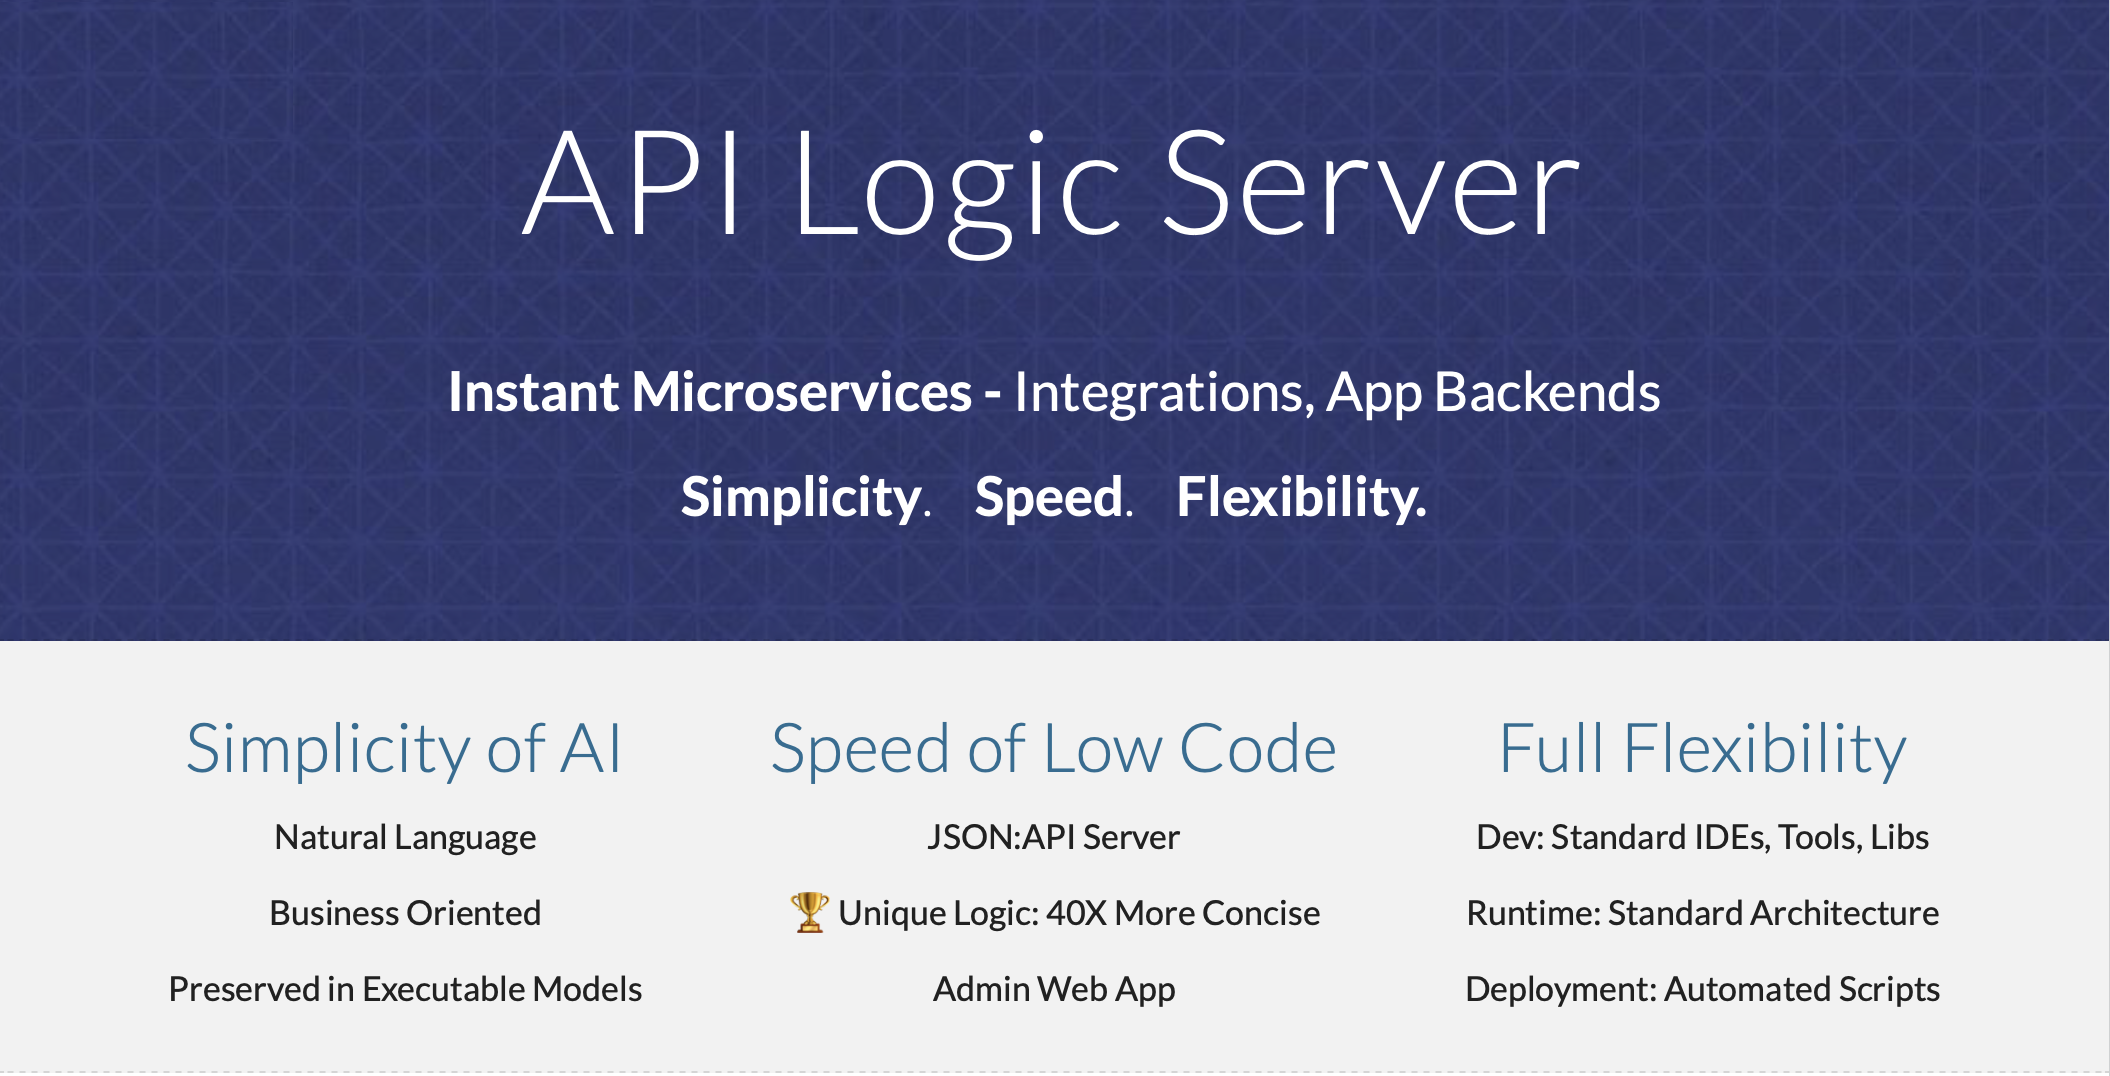
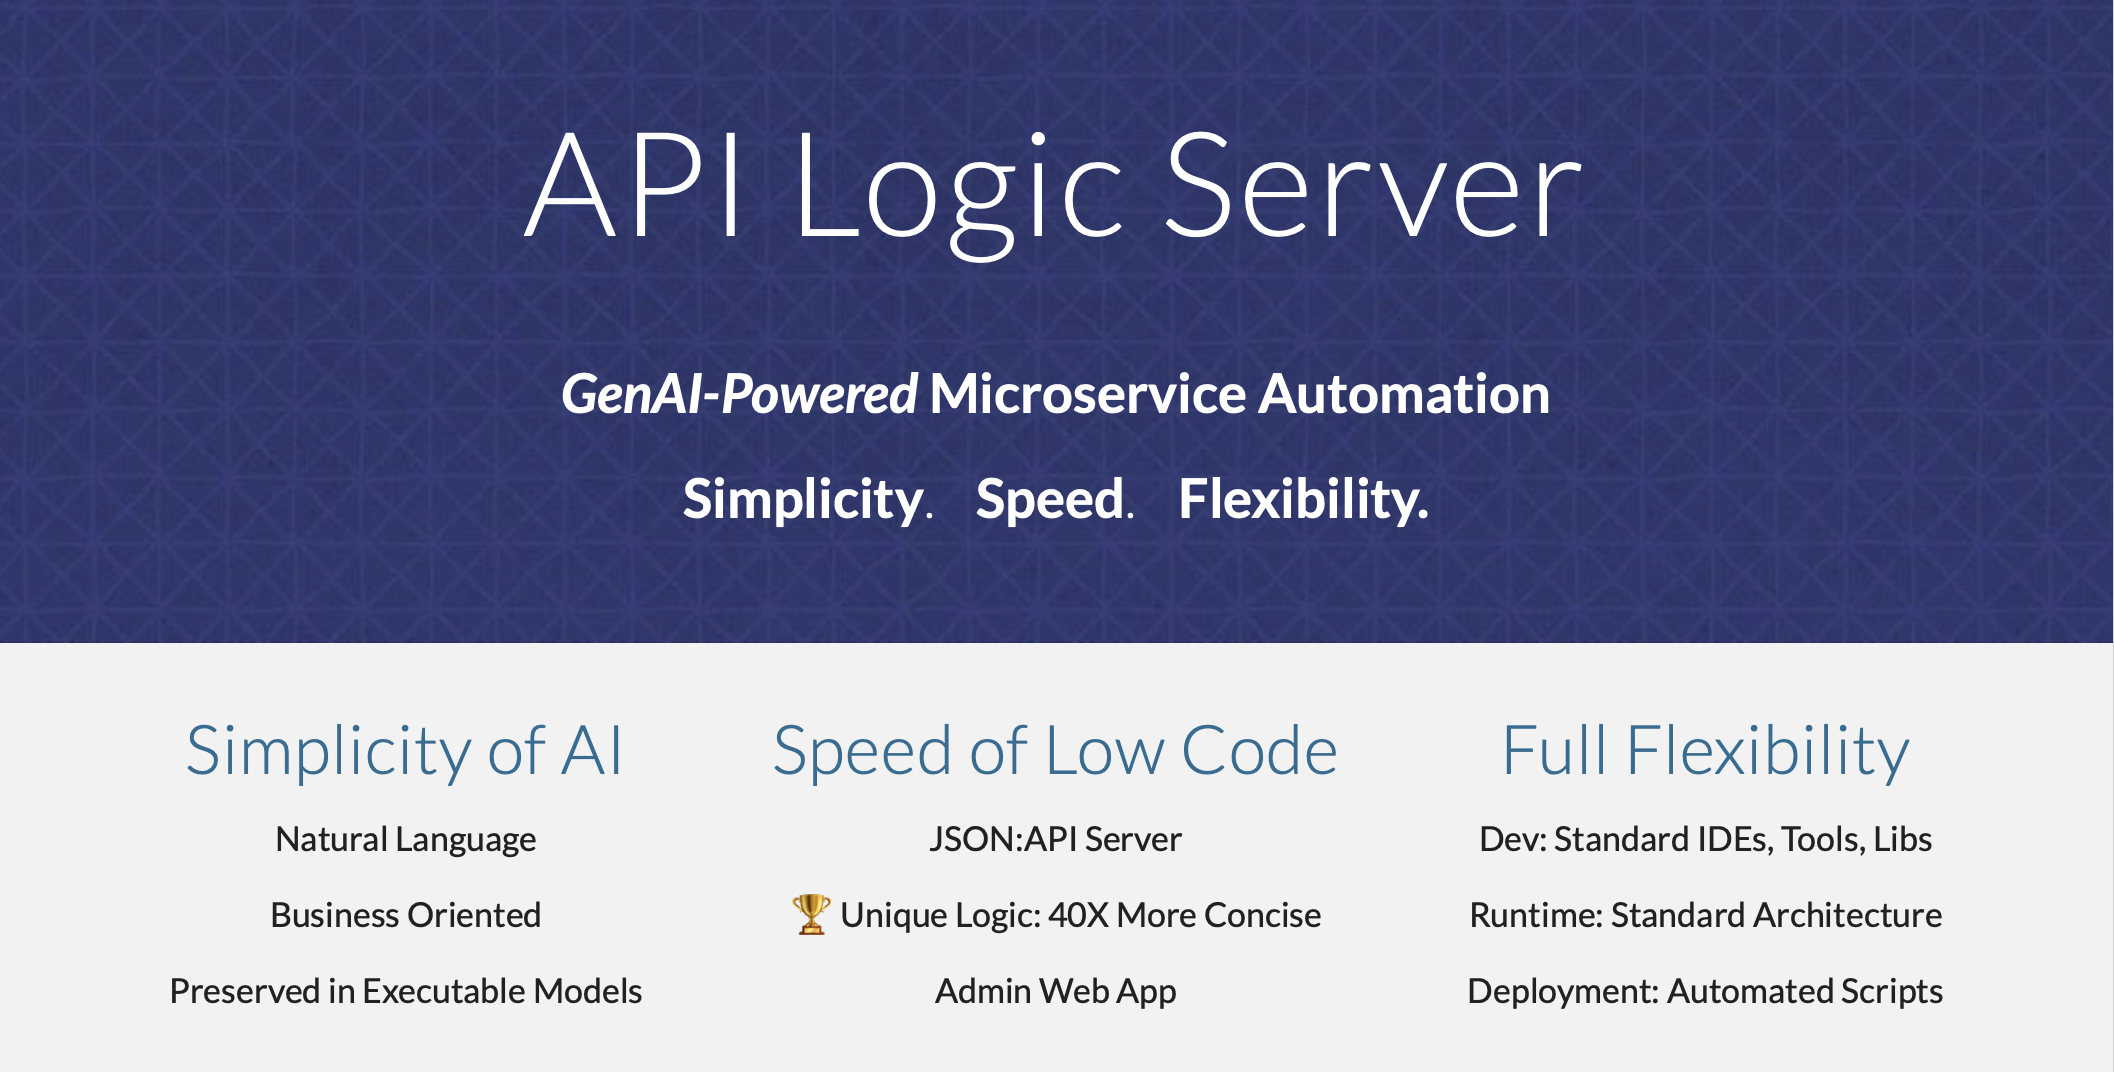
genai-powered microservice automation

diff --git a/docs/index.md b/docs/index.md
@@ -126,7 +126,7 @@ For more information, see [the FAQs](FAQ-Low-Code.md){:target="_blank" rel="noop
 
 <details markdown>
 
-<summary>Comparing GenAI with GenAI Microservice Automation</summary>
+<summary>Comparing GenAI with GenAI-Powered Microservice Automation</summary>
 
 First, GenAOI creates only the database.  It does not create the microservice, the project, the API, or the App.  And it certainly does not create the logic.  GenAI Microservice Automation does all of this.
 
